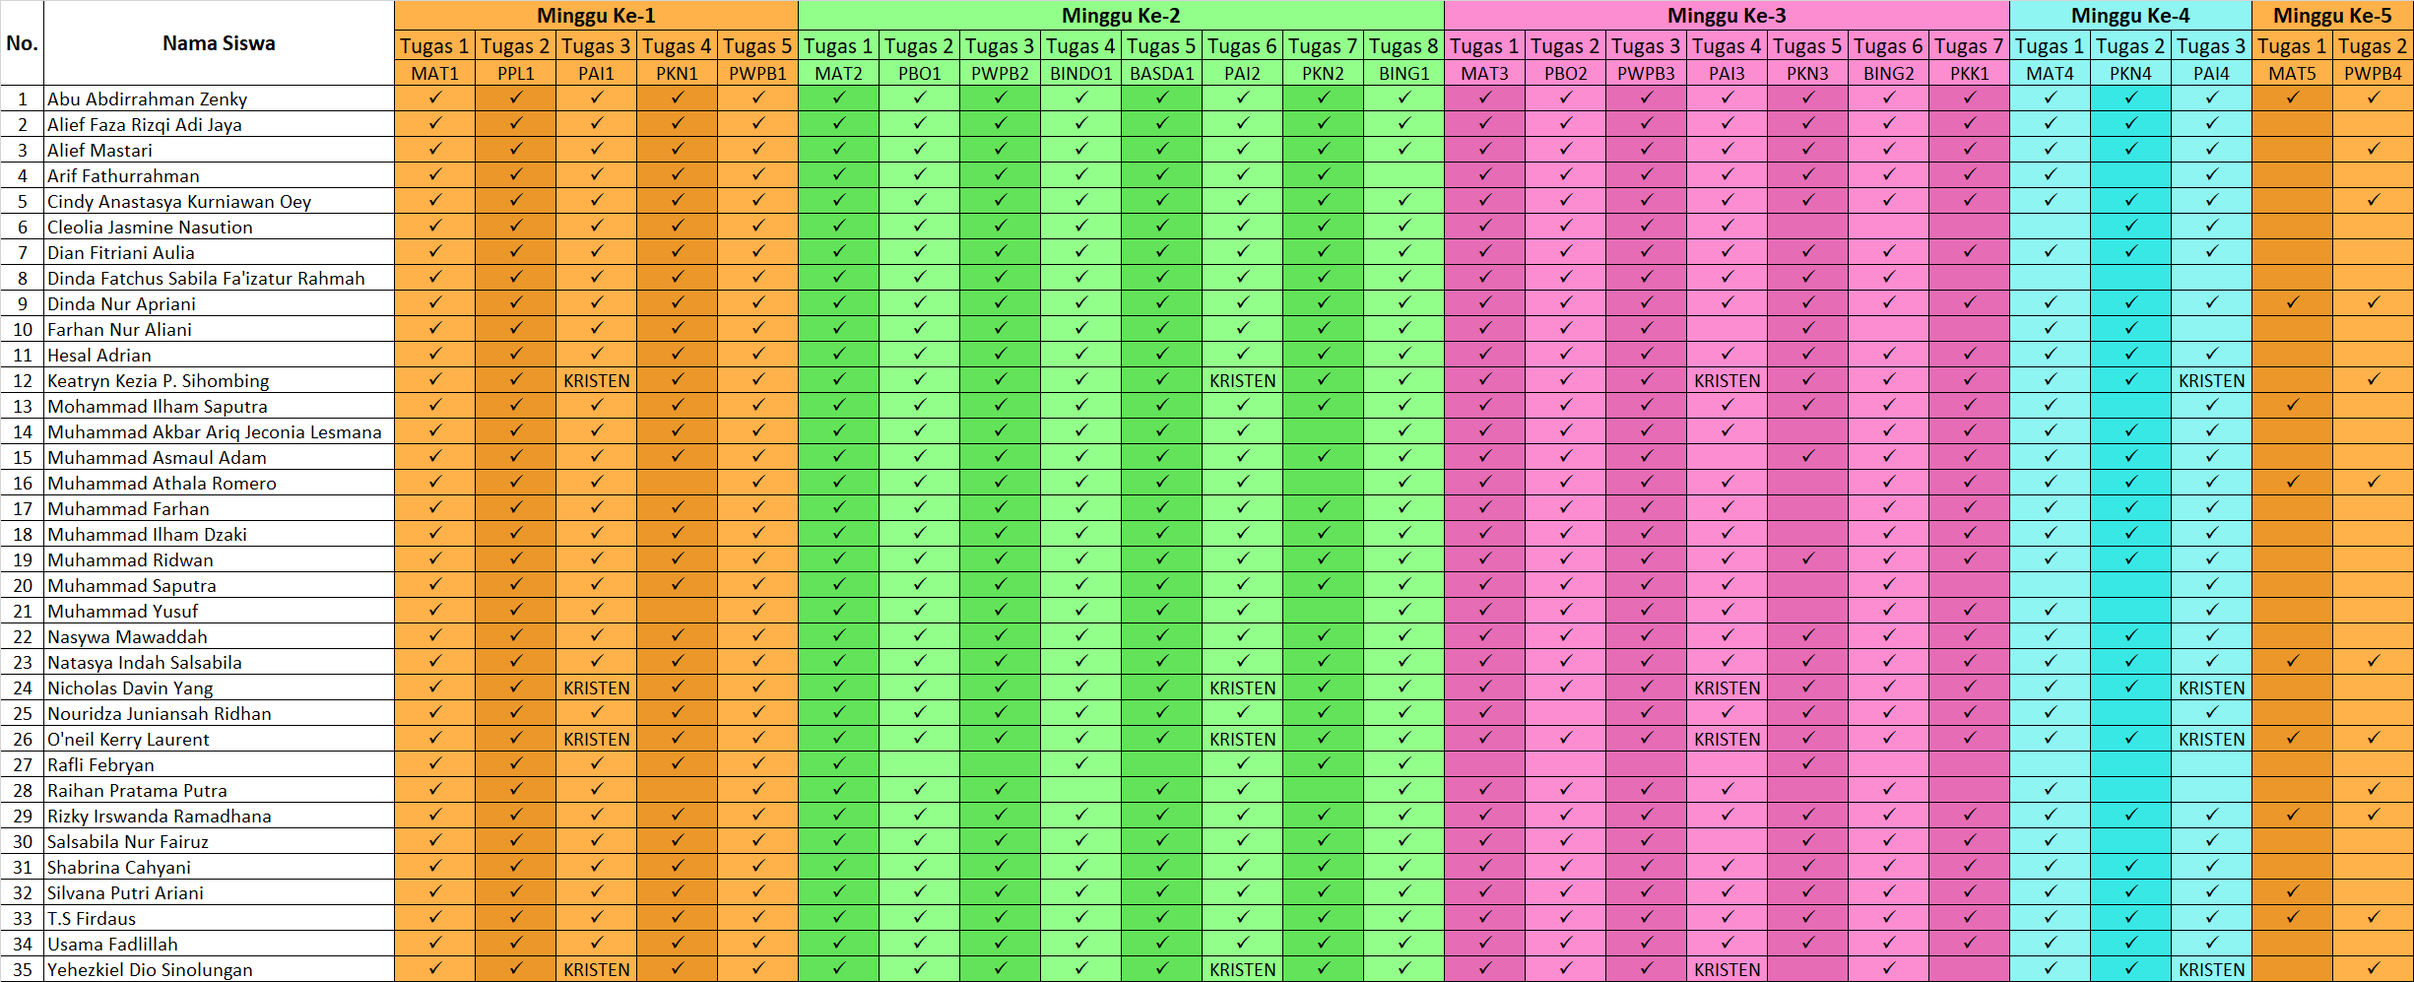
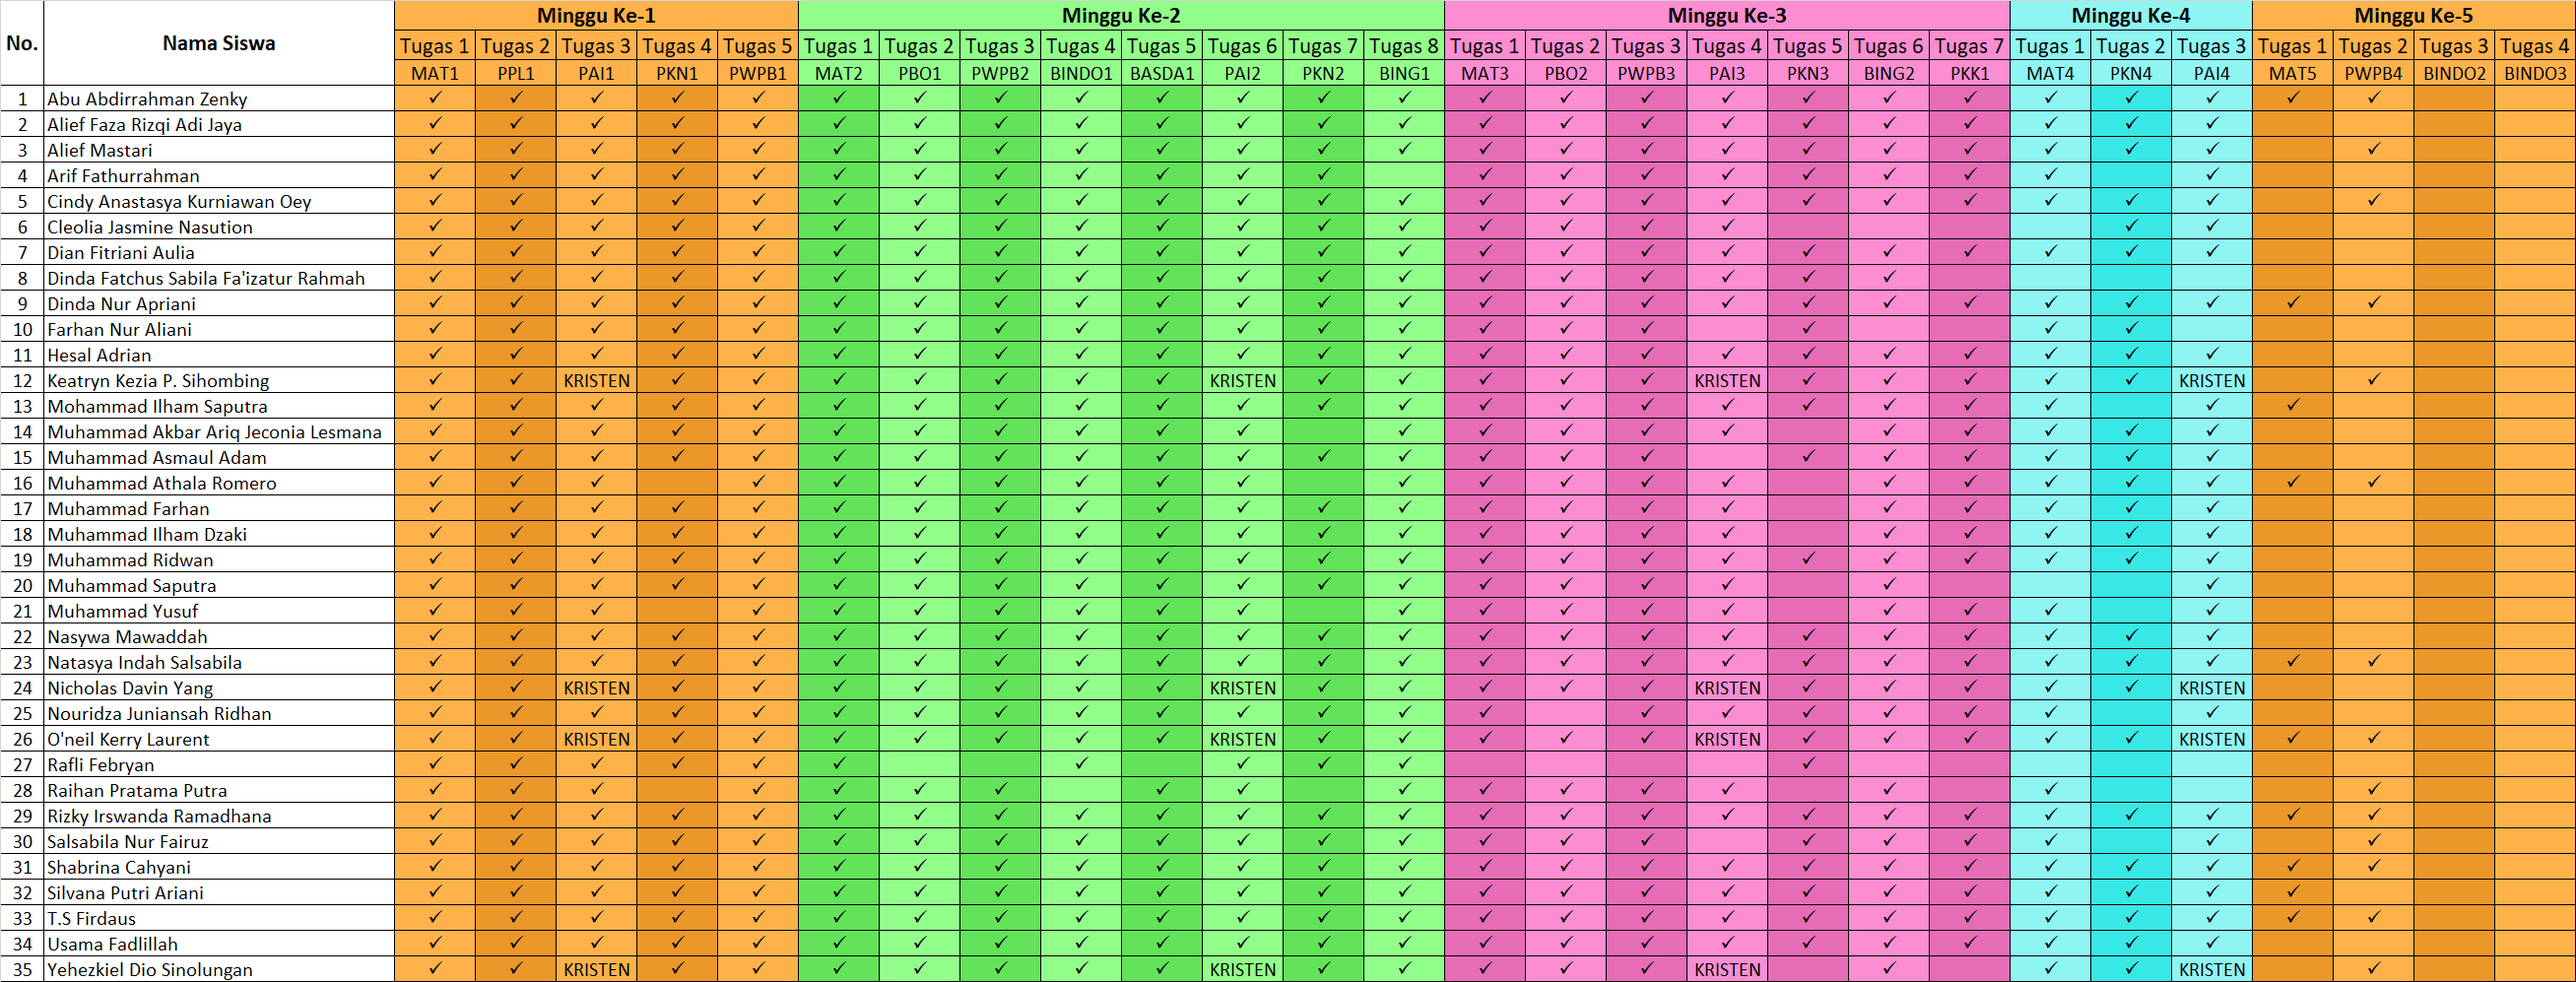
Directory Adjustment, Updating Made Easier and Fixed Merge Cell Issue

diff --git a/Excel/Program/main_program.py b/Excel/Program/main_program.py
@@ -1,6 +1,6 @@
 import openpyxl
 from openpyxl.styles import *
-from files import wb_mingguan_file, wb_bulanan_file
+from files import wb_mingguan_file, wb_bulanan_file, weekly_task_start_column_range, weekly_task_end_column_range, monthly_task_start_column_range, monthly_task_end_column_range
 
 def write_table_names():
     wb_names = openpyxl.load_workbook("Excel/Names.xlsx")
@@ -128,9 +128,7 @@ def write_table_names():
 def write_table_value():
     wb_gabunggan = openpyxl.load_workbook("Excel/List Tugas Gabunggan.xlsx")
     
-    # Collect Data Value + Update
-    weekly_task_start_column_range = [3, 8, 16, 23, 26]
-    weekly_task_end_column_range   = [8, 16, 23, 26, 28]
+    # Collect Data Value
     weekly_task_value = []
     for k in range(len(weekly_task_start_column_range)):
         value_list = []
@@ -145,9 +143,7 @@ def write_table_value():
 
         weekly_task_value.append(value_list)
 
-    # Collect Data Value + Update
-    monthly_task_start_column_range = [3]
-    monthly_task_end_column_range   = [28]
+    # Collect Data Value
     monthly_task_value = []
     for k in range(len(monthly_task_start_column_range)):
         value_list = []
@@ -198,6 +194,12 @@ def write_table_value():
 
     for wb in range(len(wb_bulanan)):
         for i in range(len(weekly_task_start_column_range)):
+            try:
+                wb_bulanan[wb].active.unmerge_cells(start_row = 1, start_column = weekly_task_start_column_range[i], end_row = 1, end_column = weekly_task_end_column_range[i] - 1) 
+
+            except:
+                pass
+
             try:
                 wb_bulanan[wb].active.merge_cells(start_row = 1, start_column = weekly_task_start_column_range[i], end_row = 1, end_column = weekly_task_end_column_range[i] - 1)  
 

diff --git a/Excel/Program/files.py b/Excel/Program/files.py
@@ -25,3 +25,11 @@ global wb_bulanan_image_name
 wb_bulanan_image_name = [
     "Image List Tugas Bulan Ke-1"
 ]
+
+global weekly_task_start_column_range, weekly_task_end_column_range
+weekly_task_start_column_range = [3, 8, 16, 23, 26]
+weekly_task_end_column_range   = [8, 16, 23, 26, 30]
+
+global monthly_task_start_column_range,monthly_task_end_column_range
+monthly_task_start_column_range = [3]
+monthly_task_end_column_range   = [30]
